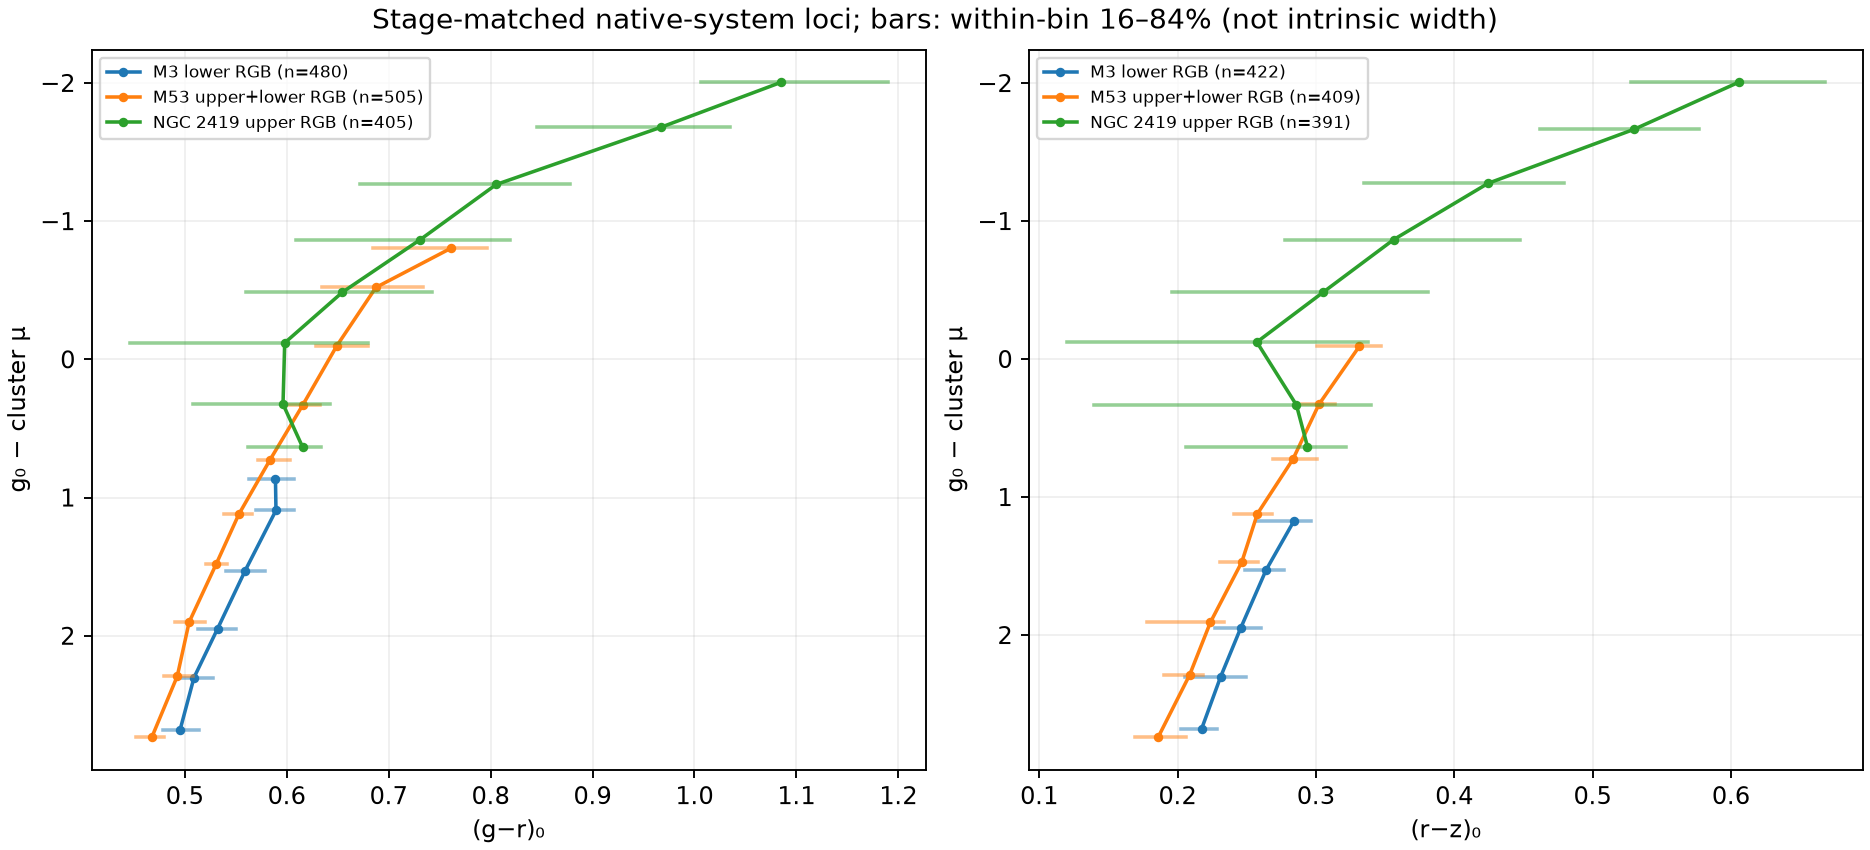
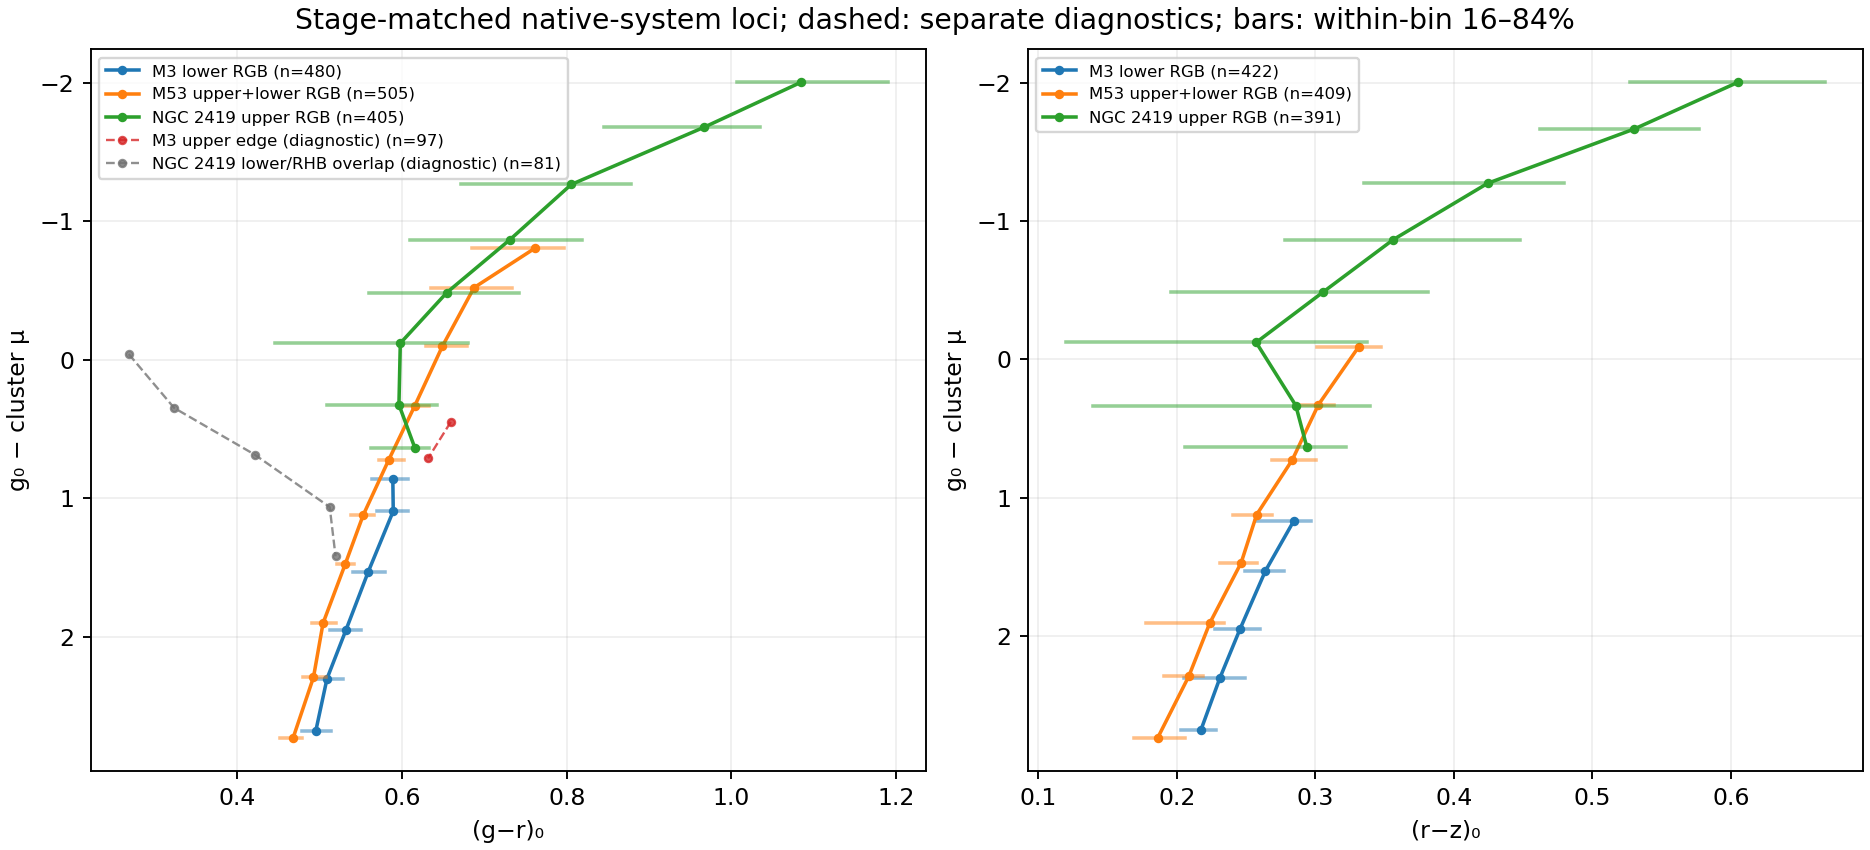
Separate RGB overlap diagnostics in final cluster locus figure

diff --git a/scripts/cluster_rgb_system_audit.py b/scripts/cluster_rgb_system_audit.py
@@ -272,13 +272,24 @@ def plot_loci(path, loci):
                 for p in pts:
                     ax.plot([p["p16"],p["p84"]],[p["mg"]]*2,
                             color=color, alpha=.5, lw=1.5)
+    for name, phase, label, color in (
+            ("m3", "diagnostic_upper_rgb", "M3 upper edge (diagnostic)", "tab:red"),
+            ("ngc2419", "diagnostic_lower_rgb",
+             "NGC 2419 lower/RHB overlap (diagnostic)", "0.45")):
+        diagnostic = loci[name][phase]
+        points = diagnostic["gr_points"]
+        if points:
+            axes[0].plot([p["color"] for p in points],
+                         [p["mg"] for p in points], "o--", color=color,
+                         ms=3, lw=1, alpha=.8,
+                         label=f"{label} (n={diagnostic['n']})")
     axes[0].set(xlabel="(g−r)₀",ylabel="g₀ − cluster μ")
     axes[1].set(xlabel="(r−z)₀",ylabel="g₀ − cluster μ")
     for ax in axes:
         ax.invert_yaxis()
         ax.grid(alpha=.2)
         ax.legend(fontsize=7)
-    fig.suptitle("Stage-matched native-system loci; bars: within-bin 16–84% (not intrinsic width)")
+    fig.suptitle("Stage-matched native-system loci; dashed: separate diagnostics; bars: within-bin 16–84%")
     path.parent.mkdir(parents=True,exist_ok=True)
     fig.savefig(path,dpi=170)
     plt.close(fig)

diff --git a/docs/cluster_rgb_native_system_v2.md b/docs/cluster_rgb_native_system_v2.md
@@ -102,7 +102,9 @@ The new [stage-aligned locus figure](../figures/cluster_rgb/04_stage_matched_nat
 uses 480 M3 lower and 505 M53 upper+lower gr candidates, plus 405 NGC 2419
 upper candidates. Its `r-z` panel uses the unchanged frozen B cores of
 422, 409 and 391. The 81 new NGC 2419 lower-region stars remain a separate
-red-HB-overlap diagnostic and are not in the plotted upper sequence.
+red-HB-overlap diagnostic, plotted as a dashed gray gr sequence rather than
+mixed into the upper fit. The 97 M3 upper-edge gr candidates are likewise
+shown separately with a dashed red line.
 
 At seven common `M_g` grid points from `+1.0` to `+2.5`, the two southern
 **lower-RGB** gr sequences differ by median

diff --git a/WORKLOG.md b/WORKLOG.md
@@ -11,6 +11,8 @@
   with an inner/outer center shift; 25 quality PS1 matches show a median
   Legacy-minus-transformed-PS1 gr offset of −0.025 mag. Files: v2 aggregate
   manifest and figure, PS1 manifest, native-system report, PLAN.
+  Added separate dashed M3 upper-edge and NGC 2419 lower/RHB-overlap
+  sequences to the final plot so the frozen fitted stages remain explicit.
   Commands: Slurm cached finalize and PS1 cross-check, manifest/figure review,
   focused tests. Validation: both jobs exit 0; all four identities and
   camera releases verified. Remaining: no adopted giant-distance model;

diff --git a/PLAN.md b/PLAN.md
@@ -33,7 +33,7 @@ cold-v4/XD and blue forward-parallax results unchanged.
    p(color | M_g, metallicity, RGB, system). Register a new whole-cluster
    test before any subsequent fit; NGC 7006 has already been used. Keep
    WISE as an acceptance diagnostic. Targeted tests passed; code, report,
-   small manifests and the selected figure are ready for milestone sync.
+   small manifests and the selected figure are in the milestone sync.
 
 Measured outcome: M3 upper RGB has 97 clean gr vs 2 clean grz candidates,
 but remains confined near `M_g≈+0.4…+0.9`; M3–M53 same-DECam lower loci
